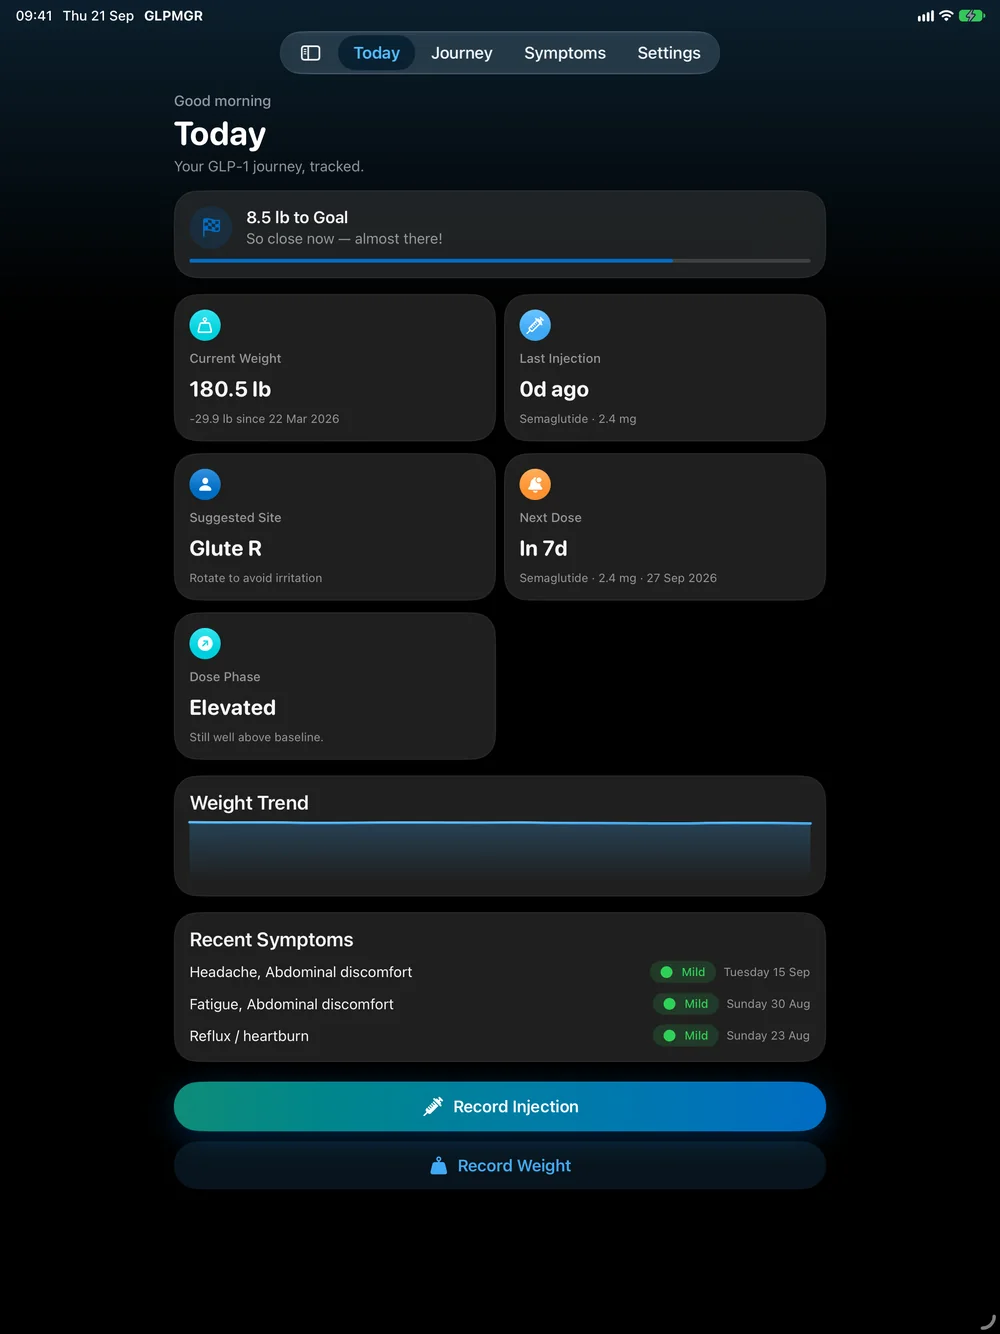
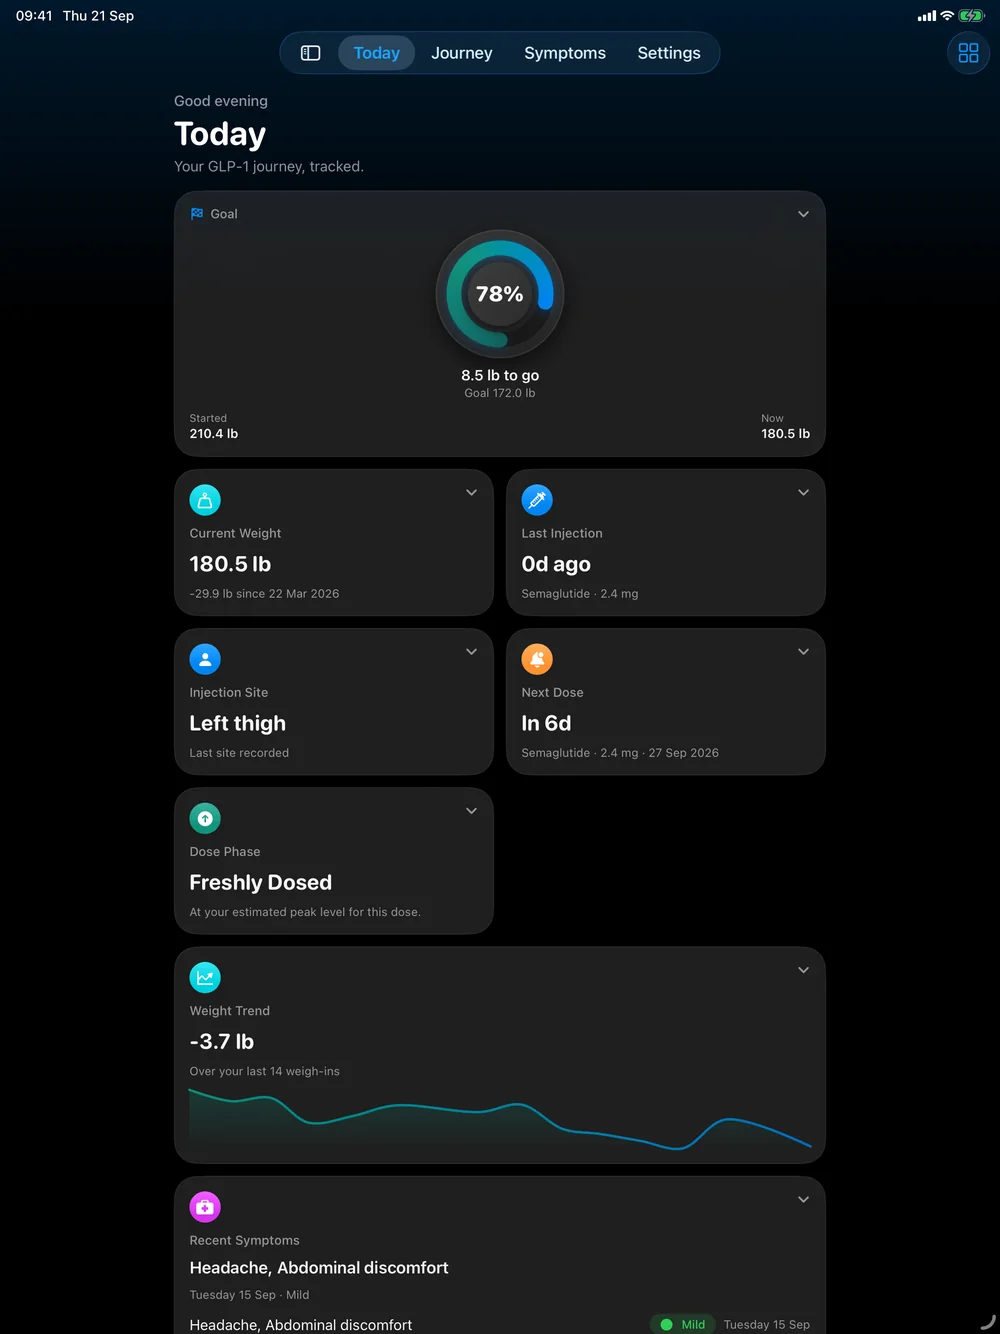
Re-shoot the website screenshots for the current app
Today, the record form, Settings (now with group headings), Journey, log and
symptoms images are new, along with a Body map slide and feature image. The old
images showed the eight-site picker and a suggested-site tile that no longer exist.

diff --git a/index.html b/index.html
@@ -54,14 +54,14 @@
   <div class="sec-head rv"><span class="eyebrow">Features</span>
     <h2>Everything for your routine. Nothing you don’t need.</h2>
     <p>GLPMGR is built around how people actually take GLP-1 medication: schedules, escalating doses, rotating sites and keeping an eye on how you feel.</p></div>
-  <div class="features"><article class="card f-a rv"><div class="feature-lg"><div><div class="ico" style="--c:linear-gradient(135deg,#0f8c78,#0a8fa0)"><svg viewBox="0 0 24 24" aria-hidden="true"><path d="M3 21h4v-5h4v-5h4V6h6"/><path d="m18 3 3 3-3 3"/></svg></div><h3>Doses &amp; titration ladders</h3><p>Log every injection or pill in seconds. Enter the dose-escalation ladder your clinician set and GLPMGR fills in the current step for you, right up to your maintenance dose.</p></div><div class="mini"><div class="phone "><img src="assets/shots/titration.webp" width="600" height="1304" alt="Titration ladder editor" loading="lazy" decoding="async"></div></div></div></article><article class="card f-b rv"><div class="feature-lg"><div><div class="ico" style="--c:linear-gradient(135deg,#0a8fa0,#006cc4)"><svg viewBox="0 0 24 24" aria-hidden="true"><path d="M3 12a9 9 0 0 1 9-9 9.75 9.75 0 0 1 6.74 2.74L21 8"/><path d="M21 3v5h-5"/><path d="M21 12a9 9 0 0 1-9 9 9.75 9.75 0 0 1-6.74-2.74L3 16"/><path d="M8 16H3v5"/></svg></div><h3>Injection areas from your medicine&rsquo;s instructions</h3><p>GLPMGR only offers the injection areas your medicine&rsquo;s manufacturer lists for your region, and shows where you have injected on a body map. If we don&rsquo;t hold a verified list for a medicine, it doesn&rsquo;t offer a site. This is not medical advice: talk to your doctor, pharmacist or nurse about where and how to inject. <a href="site-guidance.html">See where the guidance comes from</a>.</p></div><div class="mini"><div class="phone "><img src="assets/shots/sites.webp" width="600" height="1304" alt="Record Injection with the listed injection areas" loading="lazy" decoding="async"></div></div></div></article><article class="card f-c rv"><div><div class="ico" style="--c:#f59a3c"><svg viewBox="0 0 24 24" aria-hidden="true"><path d="M6 8a6 6 0 0 1 12 0c0 7 3 9 3 9H3s3-2 3-9"/><path d="M10.3 21a1.94 1.94 0 0 0 3.4 0"/></svg></div><h3>Reminders &amp; supply alerts</h3><p>Get reminded before each dose is due, plus a heads-up when your pen, vial or prescription is running low.</p></div></article><article class="card f-c rv"><div><div class="ico" style="--c:#0fb5c9"><svg viewBox="0 0 24 24" aria-hidden="true"><rect x="3" y="3" width="18" height="18" rx="5"/><path d="M8 9.5a5 5 0 0 1 8 0"/><path d="m12 13 2-3"/></svg></div><h3>Weight, goals &amp; Apple Health</h3><p>Log weight in kg, lb or stones, set a goal weight and watch your progress. Sync with Apple Health if you want to; it is off until you turn it on.</p></div></article><article class="card f-c rv"><div><div class="ico" style="--c:#34c759"><svg viewBox="0 0 24 24" aria-hidden="true"><path d="M19 14c1.49-1.46 3-3.21 3-5.5A5.5 5.5 0 0 0 16.5 3c-1.76 0-3 .5-4.5 2-1.5-1.5-2.74-2-4.5-2A5.5 5.5 0 0 0 2 8.5c0 2.3 1.5 4.05 3 5.5l7 7Z"/><path d="M3.22 12H9.5l.5-1 2 4.5 2-7 1.5 3.5h5.27"/></svg></div><h3>A symptom diary that helps</h3><p>Record symptoms with severity and notes, and see when they happen in relation to your doses.</p></div></article><article class="card f-c rv"><div><div class="ico" style="--c:#0f8c78"><svg viewBox="0 0 24 24" aria-hidden="true"><path d="M3 3v18h18"/><path d="m19 9-5 5-4-4-3 3"/></svg></div><h3>Estimated medication level</h3><p>A gentle chart of your estimated relative level, based on typical half-life. An estimate for context, not a clinical measurement.</p></div></article><article class="card f-c rv"><div><div class="ico" style="--c:#2d7bd6"><svg viewBox="0 0 24 24" aria-hidden="true"><path d="M14.5 4h-5L7 7H4a2 2 0 0 0-2 2v9a2 2 0 0 0 2 2h16a2 2 0 0 0 2-2V9a2 2 0 0 0-2-2h-3l-2.5-3z"/><circle cx="12" cy="13" r="3"/></svg></div><h3>Photos &amp; measurements</h3><p>Keep body measurements and progress photos alongside your weight, all stored privately on your device.</p></div></article><article class="card f-c rv"><div><div class="ico" style="--c:#006cc4"><svg viewBox="0 0 24 24" aria-hidden="true"><path d="M15 2H6a2 2 0 0 0-2 2v16a2 2 0 0 0 2 2h12a2 2 0 0 0 2-2V7z"/><path d="M14 2v4a2 2 0 0 0 2 2h4"/><path d="M12 18v-6"/><path d="m9 15 3 3 3-3"/></svg></div><h3>Export for your care team</h3><p>Generate a clean PDF report, or export CSV / JSON. Every export is created on your device.</p></div></article></div>
+  <div class="features"><article class="card f-a rv"><div class="feature-lg"><div><div class="ico" style="--c:linear-gradient(135deg,#0f8c78,#0a8fa0)"><svg viewBox="0 0 24 24" aria-hidden="true"><path d="M3 21h4v-5h4v-5h4V6h6"/><path d="m18 3 3 3-3 3"/></svg></div><h3>Doses &amp; titration ladders</h3><p>Log every injection or pill in seconds. Enter the dose-escalation ladder your clinician set and GLPMGR fills in the current step for you, right up to your maintenance dose.</p></div><div class="mini"><div class="phone "><img src="assets/shots/titration.webp" width="600" height="1304" alt="Titration ladder editor" loading="lazy" decoding="async"></div></div></div></article><article class="card f-b rv"><div class="feature-lg"><div><div class="ico" style="--c:linear-gradient(135deg,#0a8fa0,#006cc4)"><svg viewBox="0 0 24 24" aria-hidden="true"><path d="M3 12a9 9 0 0 1 9-9 9.75 9.75 0 0 1 6.74 2.74L21 8"/><path d="M21 3v5h-5"/><path d="M21 12a9 9 0 0 1-9 9 9.75 9.75 0 0 1-6.74-2.74L3 16"/><path d="M8 16H3v5"/></svg></div><h3>Injection areas from your medicine&rsquo;s instructions</h3><p>GLPMGR only offers the injection areas your medicine&rsquo;s manufacturer lists for your region, and shows where you have injected on a body map. If we don&rsquo;t hold a verified list for a medicine, it doesn&rsquo;t offer a site. This is not medical advice: talk to your doctor, pharmacist or nurse about where and how to inject. <a href="site-guidance.html">See where the guidance comes from</a>.</p></div><div class="mini"><div class="phone "><img src="assets/shots/bodymap.webp" width="600" height="1304" alt="Injection body map" loading="lazy" decoding="async"></div></div></div></article><article class="card f-c rv"><div><div class="ico" style="--c:#f59a3c"><svg viewBox="0 0 24 24" aria-hidden="true"><path d="M6 8a6 6 0 0 1 12 0c0 7 3 9 3 9H3s3-2 3-9"/><path d="M10.3 21a1.94 1.94 0 0 0 3.4 0"/></svg></div><h3>Reminders &amp; supply alerts</h3><p>Get reminded before each dose is due, plus a heads-up when your pen, vial or prescription is running low.</p></div></article><article class="card f-c rv"><div><div class="ico" style="--c:#0fb5c9"><svg viewBox="0 0 24 24" aria-hidden="true"><rect x="3" y="3" width="18" height="18" rx="5"/><path d="M8 9.5a5 5 0 0 1 8 0"/><path d="m12 13 2-3"/></svg></div><h3>Weight, goals &amp; Apple Health</h3><p>Log weight in kg, lb or stones, set a goal weight and watch your progress. Sync with Apple Health if you want to; it is off until you turn it on.</p></div></article><article class="card f-c rv"><div><div class="ico" style="--c:#34c759"><svg viewBox="0 0 24 24" aria-hidden="true"><path d="M19 14c1.49-1.46 3-3.21 3-5.5A5.5 5.5 0 0 0 16.5 3c-1.76 0-3 .5-4.5 2-1.5-1.5-2.74-2-4.5-2A5.5 5.5 0 0 0 2 8.5c0 2.3 1.5 4.05 3 5.5l7 7Z"/><path d="M3.22 12H9.5l.5-1 2 4.5 2-7 1.5 3.5h5.27"/></svg></div><h3>A symptom diary that helps</h3><p>Record symptoms with severity and notes, and see when they happen in relation to your doses.</p></div></article><article class="card f-c rv"><div><div class="ico" style="--c:#0f8c78"><svg viewBox="0 0 24 24" aria-hidden="true"><path d="M3 3v18h18"/><path d="m19 9-5 5-4-4-3 3"/></svg></div><h3>Estimated medication level</h3><p>A gentle chart of your estimated relative level, based on typical half-life. An estimate for context, not a clinical measurement.</p></div></article><article class="card f-c rv"><div><div class="ico" style="--c:#2d7bd6"><svg viewBox="0 0 24 24" aria-hidden="true"><path d="M14.5 4h-5L7 7H4a2 2 0 0 0-2 2v9a2 2 0 0 0 2 2h16a2 2 0 0 0 2-2V9a2 2 0 0 0-2-2h-3l-2.5-3z"/><circle cx="12" cy="13" r="3"/></svg></div><h3>Photos &amp; measurements</h3><p>Keep body measurements and progress photos alongside your weight, all stored privately on your device.</p></div></article><article class="card f-c rv"><div><div class="ico" style="--c:#006cc4"><svg viewBox="0 0 24 24" aria-hidden="true"><path d="M15 2H6a2 2 0 0 0-2 2v16a2 2 0 0 0 2 2h12a2 2 0 0 0 2-2V7z"/><path d="M14 2v4a2 2 0 0 0 2 2h4"/><path d="M12 18v-6"/><path d="m9 15 3 3 3-3"/></svg></div><h3>Export for your care team</h3><p>Generate a clean PDF report, or export CSV / JSON. Every export is created on your device.</p></div></article></div>
 </div></section>
 
 <section id="screens" class="showcase"><div>
   <div class="wrap"><div class="sec-head rv"><span class="eyebrow">Screens</span>
     <h2>Calm, clear and quick to use.</h2>
     <p>A clean interface that follows your iPhone’s light and dark appearance, with large, readable cards and a two-tap logging flow.</p></div></div>
-  <div class="rail-wrap"><div class="rail" tabindex="0" role="group" aria-label="App screenshots"><figure class="slide"><div class="phone "><img src="assets/shots/today.webp" width="600" height="1304" alt="Today: at-a-glance dashboard with goal progress" loading="lazy" decoding="async"></div><figcaption><b>Today</b><span>Next dose, weight, site and supply at a glance.</span></figcaption></figure><figure class="slide"><div class="phone "><img src="assets/shots/journey.webp" width="600" height="1304" alt="Journey chart of weight and injections" loading="lazy" decoding="async"></div><figcaption><b>Journey</b><span>Weight, doses and estimated medication level over time.</span></figcaption></figure><figure class="slide"><div class="phone "><img src="assets/shots/log.webp" width="600" height="1304" alt="Quick-add menu for injections, weight, symptoms, measurements and photos" loading="lazy" decoding="async"></div><figcaption><b>Quick log</b><span>Injections, weight, symptoms and photos in a couple of taps.</span></figcaption></figure><figure class="slide"><div class="phone "><img src="assets/shots/titration.webp" width="600" height="1304" alt="Dose titration ladder in the schedule editor" loading="lazy" decoding="async"></div><figcaption><b>Titration</b><span>Build the escalation ladder your clinician set.</span></figcaption></figure><figure class="slide"><div class="phone "><img src="assets/shots/sites.webp" width="600" height="1304" alt="Record Injection form with the injection areas the manufacturer lists" loading="lazy" decoding="async"></div><figcaption><b>Injection sites</b><span>The areas your medicine lists, and where you have injected.</span></figcaption></figure><figure class="slide"><div class="phone "><img src="assets/shots/symptoms.webp" width="600" height="1304" alt="Symptom diary with severity chips" loading="lazy" decoding="async"></div><figcaption><b>Symptoms</b><span>Severity, timing and notes in one diary.</span></figcaption></figure><figure class="slide"><div class="phone "><img src="assets/shots/maintenance.webp" width="600" height="1304" alt="Maintenance card showing your recent average next to your chosen range" loading="lazy" decoding="async"></div><figcaption><b>Maintenance</b><span>Your recent average next to a range you choose.</span></figcaption></figure><figure class="slide"><div class="phone "><img src="assets/shots/settings-dark.webp" width="600" height="1304" alt="Settings in dark mode with Apple Health and iCloud switched off" loading="lazy" decoding="async"></div><figcaption><b>Settings</b><span>Apple Health and iCloud sync are opt-in.</span></figcaption></figure></div>
+  <div class="rail-wrap"><div class="rail" tabindex="0" role="group" aria-label="App screenshots"><figure class="slide"><div class="phone "><img src="assets/shots/today.webp" width="600" height="1304" alt="Today: at-a-glance dashboard with goal progress" loading="lazy" decoding="async"></div><figcaption><b>Today</b><span>Next dose, weight, site and supply at a glance.</span></figcaption></figure><figure class="slide"><div class="phone "><img src="assets/shots/journey.webp" width="600" height="1304" alt="Journey chart of weight and injections" loading="lazy" decoding="async"></div><figcaption><b>Journey</b><span>Weight, doses and estimated medication level over time.</span></figcaption></figure><figure class="slide"><div class="phone "><img src="assets/shots/log.webp" width="600" height="1304" alt="Quick-add menu for injections, weight, symptoms, measurements and photos" loading="lazy" decoding="async"></div><figcaption><b>Quick log</b><span>Injections, weight, symptoms and photos in a couple of taps.</span></figcaption></figure><figure class="slide"><div class="phone "><img src="assets/shots/titration.webp" width="600" height="1304" alt="Dose titration ladder in the schedule editor" loading="lazy" decoding="async"></div><figcaption><b>Titration</b><span>Build the escalation ladder your clinician set.</span></figcaption></figure><figure class="slide"><div class="phone "><img src="assets/shots/sites.webp" width="600" height="1304" alt="Record Injection form with the injection areas the manufacturer lists" loading="lazy" decoding="async"></div><figcaption><b>Injection sites</b><span>Pick from the areas your medicine lists.</span></figcaption></figure><figure class="slide"><div class="phone "><img src="assets/shots/bodymap.webp" width="600" height="1304" alt="Injection body map with the areas the manufacturer lists and where you have injected shaded" loading="lazy" decoding="async"></div><figcaption><b>Body map</b><span>See where you have injected, on the areas it lists.</span></figcaption></figure><figure class="slide"><div class="phone "><img src="assets/shots/symptoms.webp" width="600" height="1304" alt="Symptom diary with severity chips" loading="lazy" decoding="async"></div><figcaption><b>Symptoms</b><span>Severity, timing and notes in one diary.</span></figcaption></figure><figure class="slide"><div class="phone "><img src="assets/shots/maintenance.webp" width="600" height="1304" alt="Maintenance card showing your recent average next to your chosen range" loading="lazy" decoding="async"></div><figcaption><b>Maintenance</b><span>Your recent average next to a range you choose.</span></figcaption></figure><figure class="slide"><div class="phone "><img src="assets/shots/settings-dark.webp" width="600" height="1304" alt="Settings in dark mode with Apple Health and iCloud switched off" loading="lazy" decoding="async"></div><figcaption><b>Settings</b><span>Apple Health and iCloud sync are opt-in.</span></figcaption></figure></div>
   <div class="rail-btns"><button id="rail-prev" aria-label="Previous screenshots"><svg viewBox="0 0 24 24" aria-hidden="true"><path d="m15 18-6-6 6-6"/></svg></button><button id="rail-next" aria-label="Next screenshots"><svg viewBox="0 0 24 24" aria-hidden="true"><path d="m9 18 6-6-6-6"/></svg></button></div></div>
 </div></section>
 
